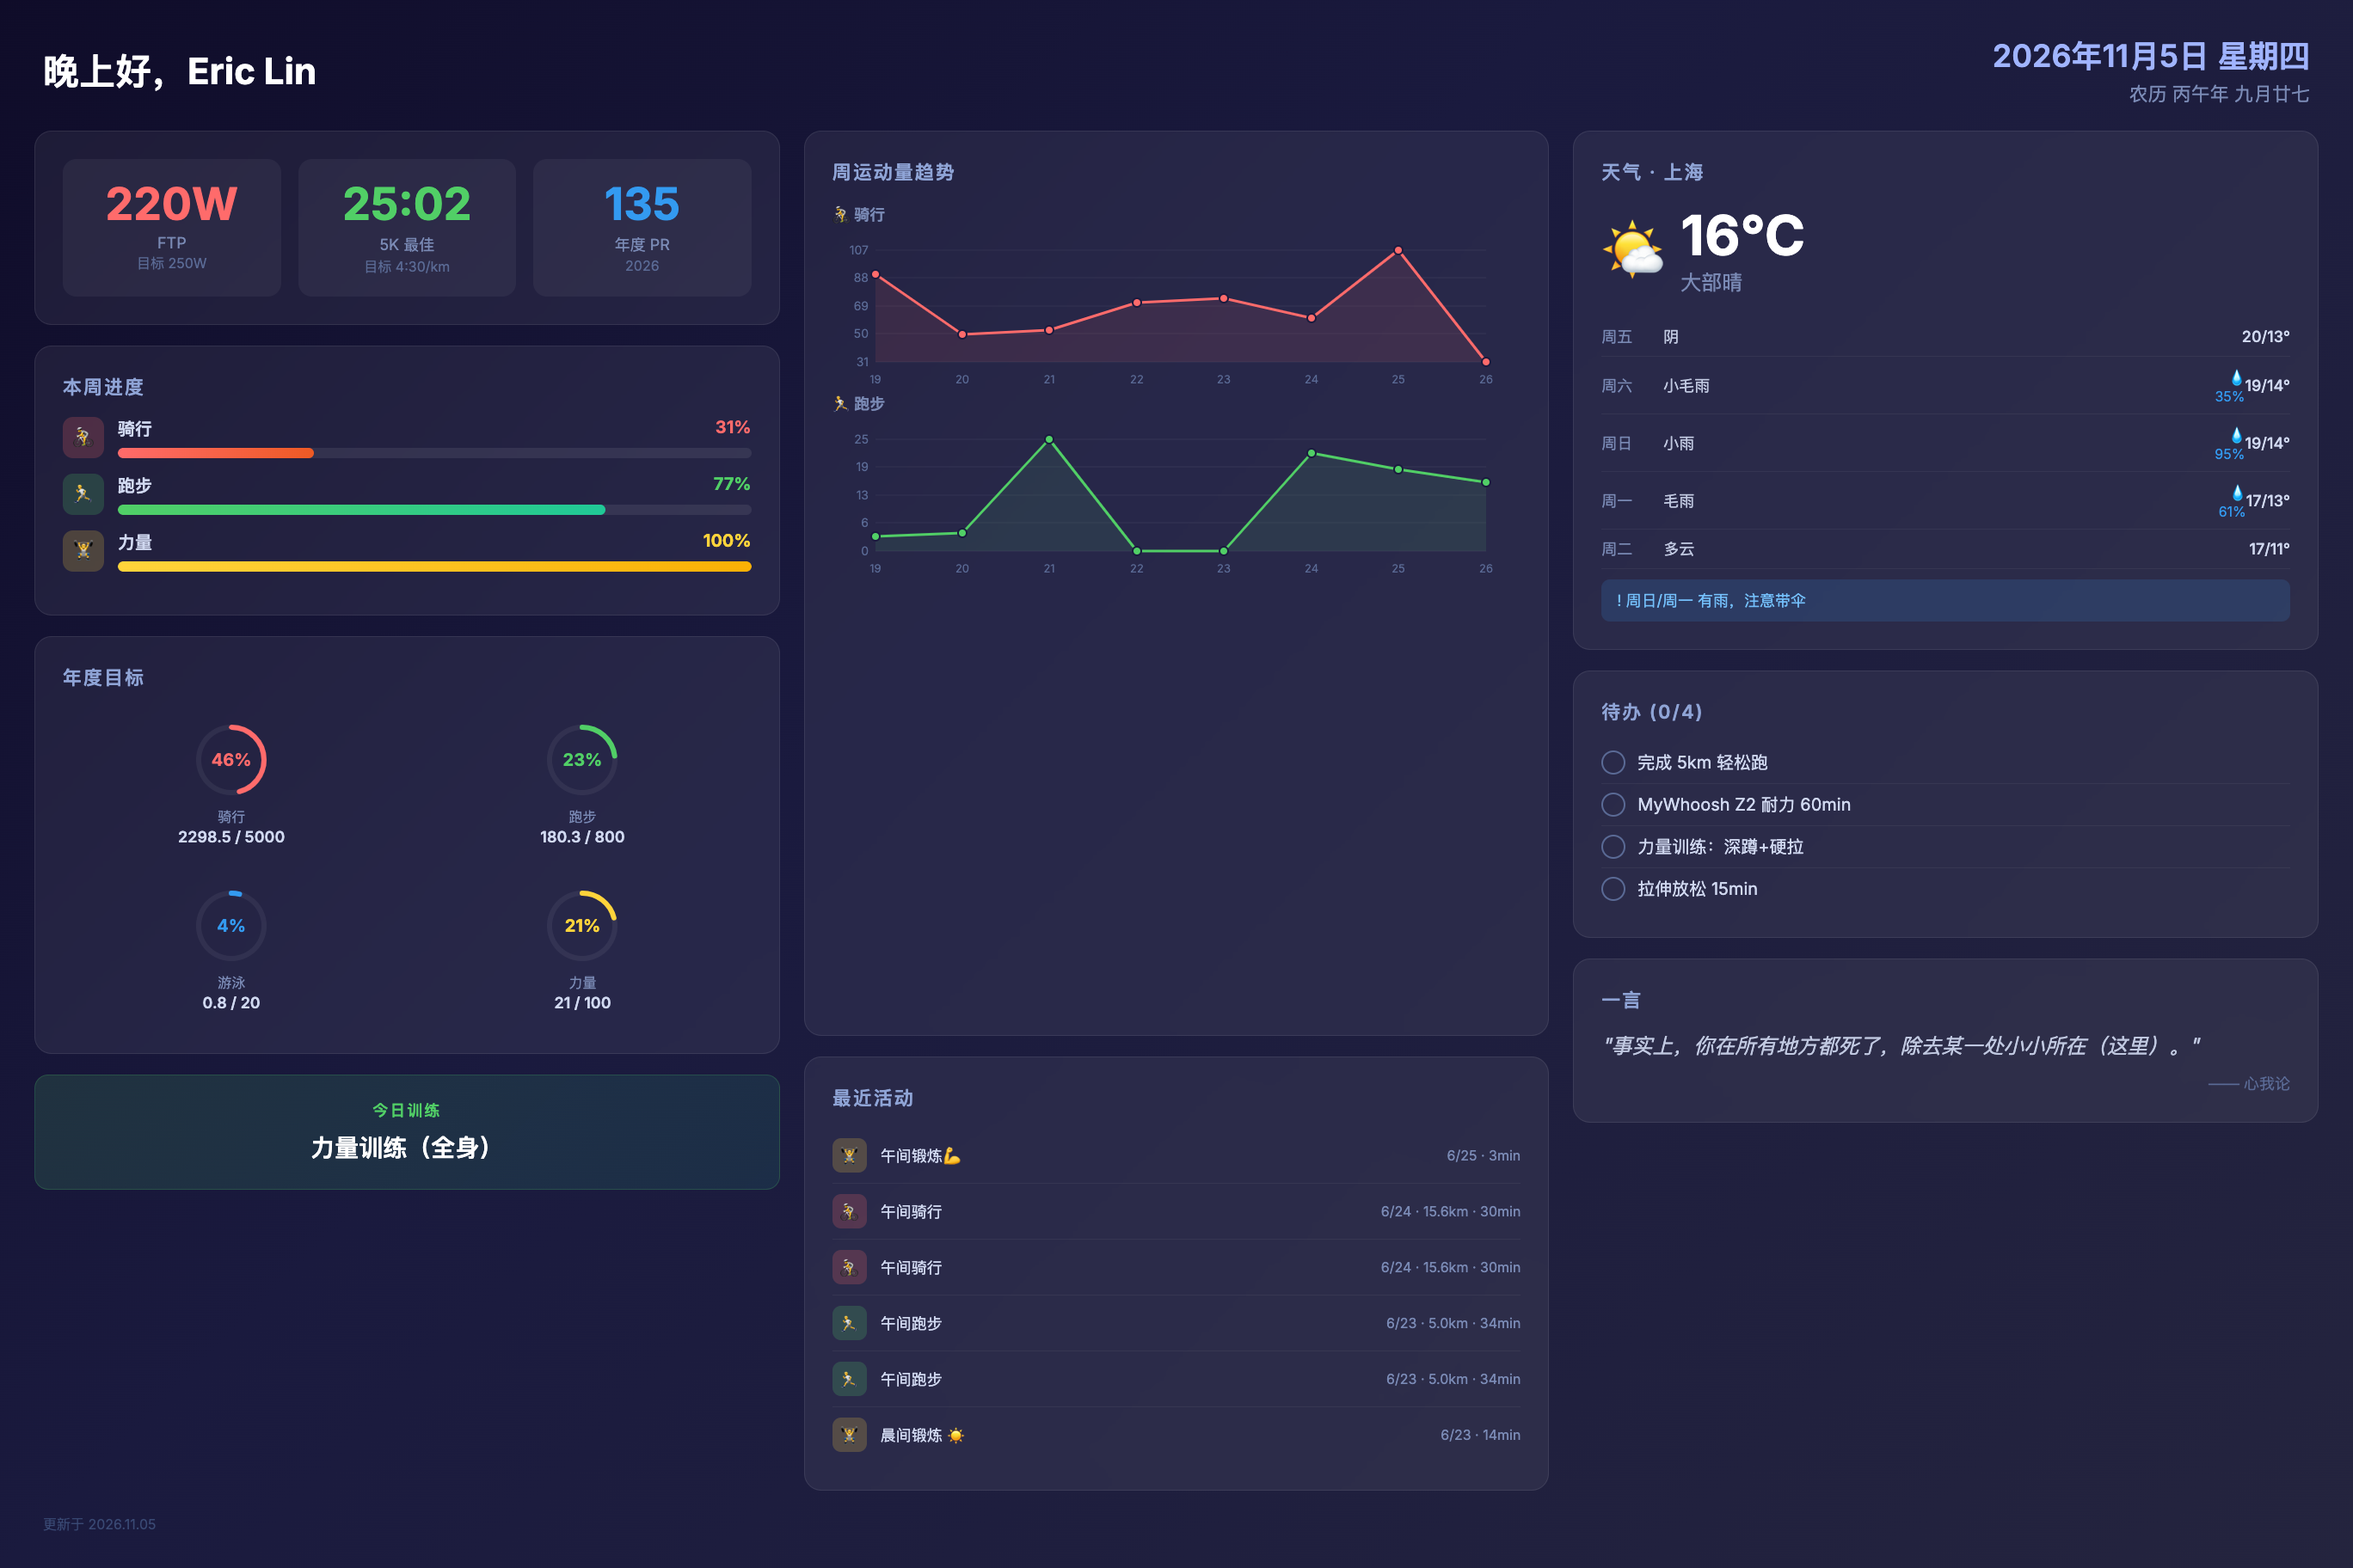
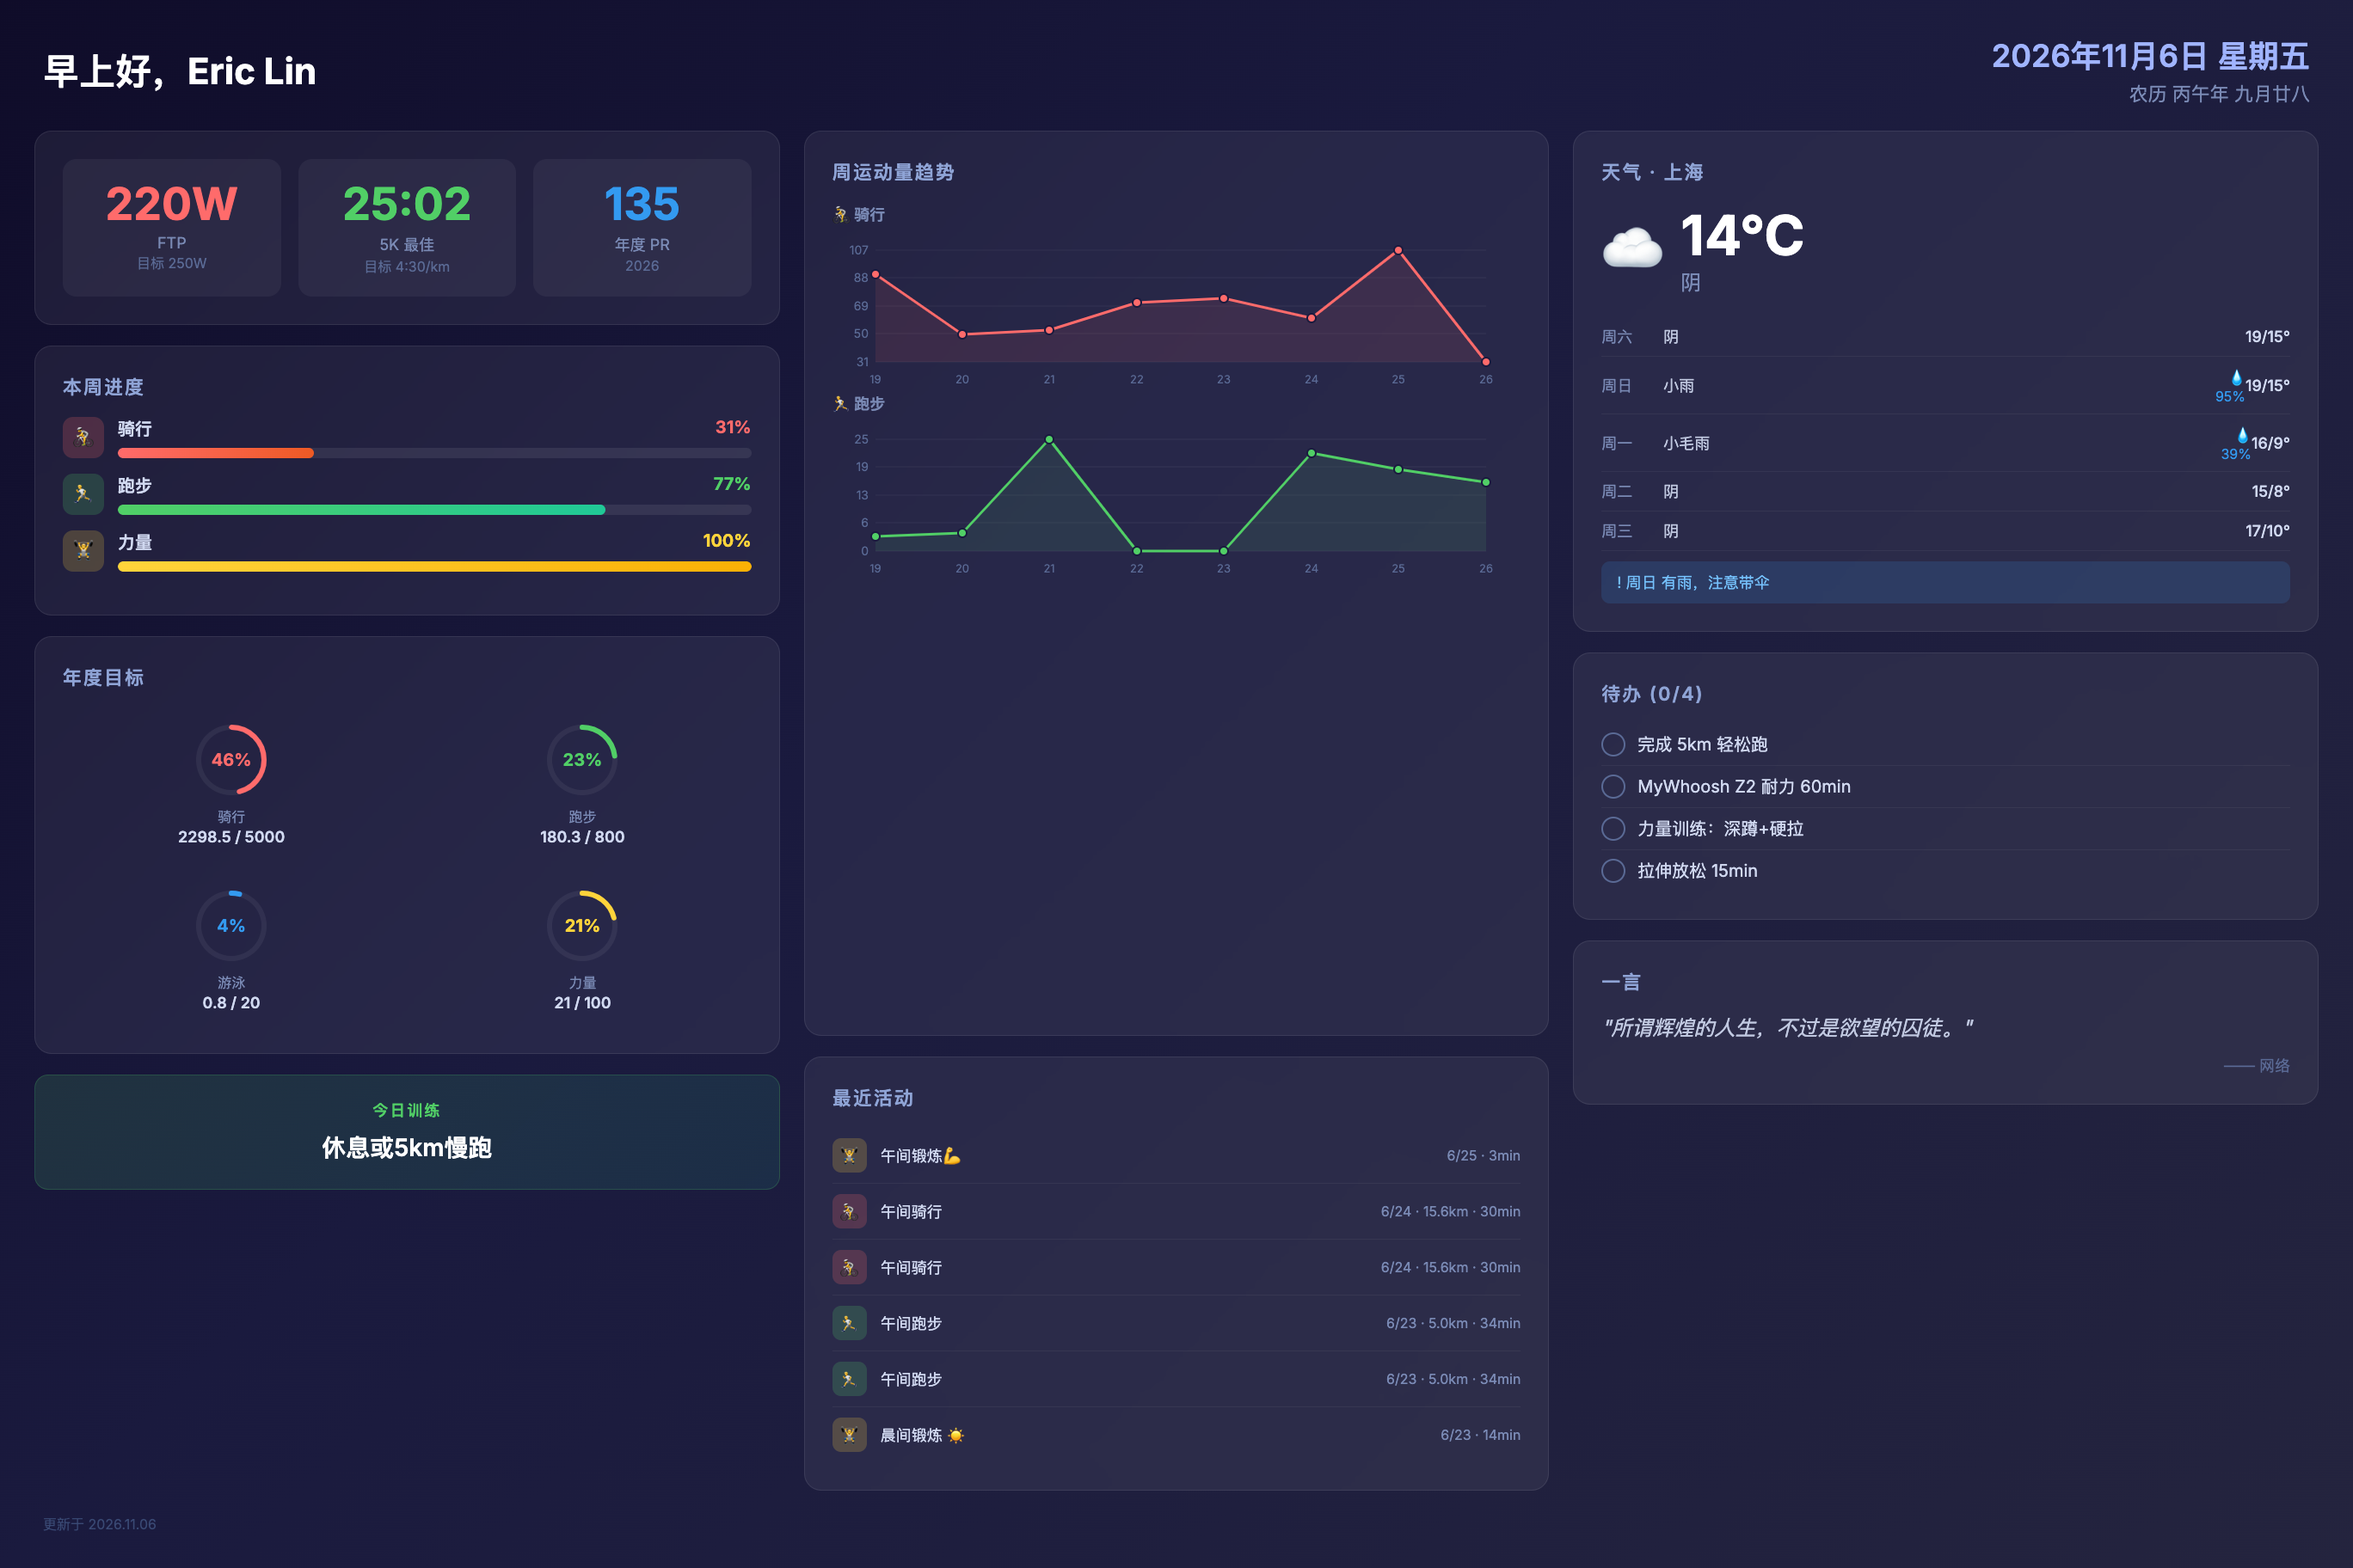
deploy: 2026-11-06-07:00

diff --git a/screensaver.html b/screensaver.html
@@ -490,13 +490,13 @@ html, body {
 <!-- ===== TOP BAR ===== -->
 <div class="top-bar">
   <div>
-    <div class="greeting">晚上好，Eric Lin</div>
+    <div class="greeting">早上好，Eric Lin</div>
     
   </div>
   <div class="date-info">
-    <div class="solar-date">2026年11月5日 星期四</div>
+    <div class="solar-date">2026年11月6日 星期五</div>
     
-    <div class="lunar-date">农历 丙午年 九月廿七</div>
+    <div class="lunar-date">农历 丙午年 九月廿八</div>
     
   </div>
 </div>
@@ -638,7 +638,7 @@ html, body {
   
   <div class="ai-today-card">
     <div class="ai-today-label">今日训练</div>
-    <div class="ai-today-text">力量训练（全身）</div>
+    <div class="ai-today-text">休息或5km慢跑</div>
   </div>
   
 
@@ -784,52 +784,52 @@ html, body {
   <div class="card">
     <div class="card-title">天气 · 上海</div>
     <div class="weather-current">
-      <div class="weather-icon-big">🌤</div>
+      <div class="weather-icon-big">☁</div>
       <div>
-        <div class="weather-temp-big">16°C</div>
-        <div class="weather-desc">大部晴</div>
+        <div class="weather-temp-big">14°C</div>
+        <div class="weather-desc">阴</div>
       </div>
     </div>
     
     
     <div class="forecast-row">
-      <div class="forecast-day">周五</div>
+      <div class="forecast-day">周六</div>
       <div class="forecast-desc">阴</div>
       <div class="forecast-precip"></div>
-      <div class="forecast-range">20/13°</div>
-    </div>
-    
-    <div class="forecast-row">
-      <div class="forecast-day">周六</div>
-      <div class="forecast-desc">小毛雨</div>
-      <div class="forecast-precip">💧35%</div>
-      <div class="forecast-range">19/14°</div>
+      <div class="forecast-range">19/15°</div>
     </div>
     
     <div class="forecast-row">
       <div class="forecast-day">周日</div>
       <div class="forecast-desc">小雨</div>
       <div class="forecast-precip">💧95%</div>
-      <div class="forecast-range">19/14°</div>
+      <div class="forecast-range">19/15°</div>
     </div>
     
     <div class="forecast-row">
       <div class="forecast-day">周一</div>
-      <div class="forecast-desc">毛雨</div>
-      <div class="forecast-precip">💧61%</div>
-      <div class="forecast-range">17/13°</div>
+      <div class="forecast-desc">小毛雨</div>
+      <div class="forecast-precip">💧39%</div>
+      <div class="forecast-range">16/9°</div>
     </div>
     
     <div class="forecast-row">
       <div class="forecast-day">周二</div>
-      <div class="forecast-desc">多云</div>
+      <div class="forecast-desc">阴</div>
       <div class="forecast-precip"></div>
-      <div class="forecast-range">17/11°</div>
+      <div class="forecast-range">15/8°</div>
+    </div>
+    
+    <div class="forecast-row">
+      <div class="forecast-day">周三</div>
+      <div class="forecast-desc">阴</div>
+      <div class="forecast-precip"></div>
+      <div class="forecast-range">17/10°</div>
     </div>
     
     
     
-    <div class="rain-alert">! 周日/周一 有雨，注意带伞</div>
+    <div class="rain-alert">! 周日 有雨，注意带伞</div>
     
   </div>
   
@@ -878,9 +878,9 @@ html, body {
   
   <div class="card">
     <div class="card-title">一言</div>
-    <div class="quote-text">"事实上，你在所有地方都死了，除去某一处小小所在（这里）。"</div>
+    <div class="quote-text">"所谓辉煌的人生，不过是欲望的囚徒。"</div>
     
-    <div class="quote-from">—— 心我论</div>
+    <div class="quote-from">—— 网络</div>
     
   </div>
   
@@ -889,7 +889,7 @@ html, body {
 
 <!-- ===== BOTTOM BAR ===== -->
 <div class="bottom-bar">
-  <div class="update-time">更新于 2026.11.05</div>
+  <div class="update-time">更新于 2026.11.06</div>
 </div>
 
 </div>

diff --git a/life.html b/life.html
@@ -89,7 +89,7 @@ html, body {
 <table class="header-table">
   <tr>
     <td class="header-left">生活</td>
-    <td class="header-right">2026.11.05</td>
+    <td class="header-right">2026.11.06</td>
   </tr>
 </table>
 
@@ -137,54 +137,47 @@ html, body {
   <p class="section-title">☀ 天气 · 上海</p>
   <table class="weather-table">
     <tr>
-      <td class="weather-icon">*</td>
-      <td class="weather-temp">16°C</td>
-      <td class="weather-desc">大部晴</td>
+      <td class="weather-icon">~</td>
+      <td class="weather-temp">14°C</td>
+      <td class="weather-desc">阴</td>
     </tr>
   </table>
   
   <table class="forecast-table">
     
     <tr>
-      <td class="forecast-day">周五</td>
+      <td class="forecast-day">周六</td>
       <td class="forecast-icon">~</td>
       <td>阴</td>
-      <td class="forecast-range">20/13°C</td>
-    </tr>
-    
-    <tr>
-      <td class="forecast-day">周六</td>
-      <td class="forecast-icon">.</td>
-      <td>小毛雨</td>
-      <td class="forecast-range">19/14°C</td>
+      <td class="forecast-range">19/15°C</td>
     </tr>
     
     <tr>
       <td class="forecast-day">周日</td>
       <td class="forecast-icon">.</td>
       <td>小雨</td>
-      <td class="forecast-range">19/14°C</td>
+      <td class="forecast-range">19/15°C</td>
     </tr>
     
     <tr>
       <td class="forecast-day">周一</td>
       <td class="forecast-icon">.</td>
-      <td>毛雨</td>
-      <td class="forecast-range">17/13°C</td>
+      <td>小毛雨</td>
+      <td class="forecast-range">16/9°C</td>
     </tr>
     
     <tr>
       <td class="forecast-day">周二</td>
       <td class="forecast-icon">~</td>
-      <td>多云</td>
-      <td class="forecast-range">17/11°C</td>
+      <td>阴</td>
+      <td class="forecast-range">15/8°C</td>
     </tr>
     
     <tr>
       <td class="forecast-day">周三</td>
       <td class="forecast-icon">~</td>
       <td>阴</td>
-      <td class="forecast-range">18/11°C</td>
+      <td class="forecast-range">17/10°C</td>
     </tr>
     
     <tr>
@@ -194,10 +187,17 @@ html, body {
       <td class="forecast-range">21/12°C</td>
     </tr>
     
+    <tr>
+      <td class="forecast-day">周五</td>
+      <td class="forecast-icon">~</td>
+      <td>阴</td>
+      <td class="forecast-range">20/14°C</td>
+    </tr>
+    
   </table>
   
   
-  <div class="rain-alert">! 周日/周一 有雨，注意带伞</div>
+  <div class="rain-alert">! 周日 有雨，注意带伞</div>
   
 </div>
 
@@ -207,10 +207,10 @@ html, body {
   <p class="section-title">📅 今日</p>
   <table class="data-table">
     <tr>
-      <td>2026年11月5日 星期三</td>
+      <td>2026年11月6日 星期四</td>
     </tr>
     <tr>
-      <td>农历丙午年 九月廿七</td>
+      <td>农历丙午年 九月廿八</td>
     </tr>
   </table>
 </div>
@@ -261,9 +261,9 @@ html, body {
 
 <div class="box">
   <p class="section-title">💬 一言</p>
-  <p class="quote-text">事实上，你在所有地方都死了，除去某一处小小所在（这里）。</p>
+  <p class="quote-text">所谓辉煌的人生，不过是欲望的囚徒。</p>
   
-  <p class="quote-from">—— 心我论</p>
+  <p class="quote-from">—— 网络</p>
   
 </div>
 

diff --git a/index.html b/index.html
@@ -74,7 +74,7 @@ html, body {
 <table class="header-table">
   <tr>
     <td class="header-left">Eric Lin · 运动</td>
-    <td class="header-right">2026.11.05</td>
+    <td class="header-right">2026.11.06</td>
   </tr>
 </table>
 
@@ -225,17 +225,10 @@ html, body {
 <div class="ai-plan">
   <div class="ai-plan-title">AI 训练建议</div>
   
-  <div class="ai-today">今日: MyWhoosh 间歇 6×3min 高功率</div>
+  <div class="ai-today">今日: 力量训练（全身）</div>
   
   
   <table class="ai-weekly">
-    
-    <tr>
-      <td class="day">周四</td>
-      
-      <td>MyWhoosh 间歇 6×3min 高功率</td>
-      
-    </tr>
     
     <tr>
       <td class="day">周五</td>
@@ -276,6 +269,13 @@ html, body {
       <td class="day">周三</td>
       
       <td>轻松跑 5km</td>
+      
+    </tr>
+    
+    <tr>
+      <td class="day">周四</td>
+      
+      <td>MyWhoosh 间歇 6×3min 高功率</td>
       
     </tr>
     

diff --git a/work.html b/work.html
@@ -89,7 +89,7 @@ html, body {
 <table class="header-table">
   <tr>
     <td class="header-left">工作</td>
-    <td class="header-right">2026.11.05</td>
+    <td class="header-right">2026.11.06</td>
   </tr>
 </table>
 
